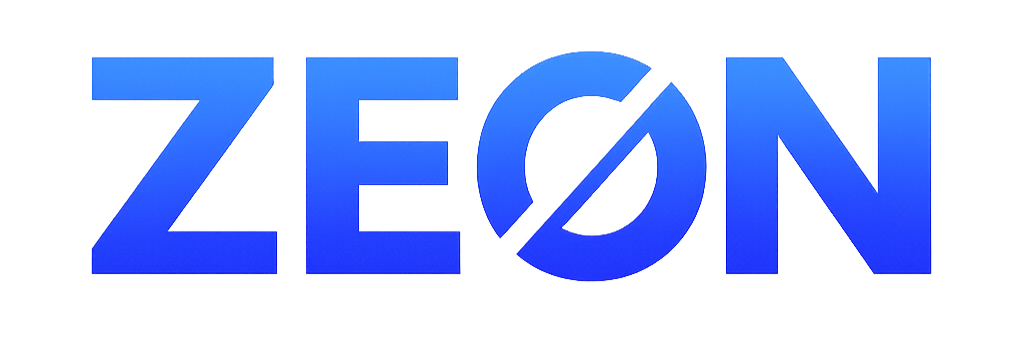
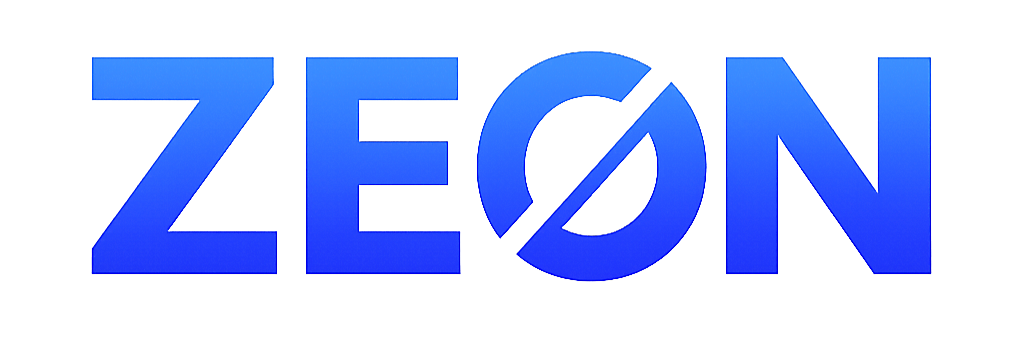
日本語対応

diff --git a/app/layout.tsx b/app/layout.tsx
@@ -1,4 +1,3 @@
-import DeployButton from '@/components/deploy-button';
 import { EnvVarWarning } from '@/components/env-var-warning';
 import HeaderAuth from '@/components/header-auth';
 import { ThemeSwitcher } from '@/components/theme-switcher';
@@ -7,6 +6,7 @@ import { hasEnvVars } from '@/utils/supabase/check-env-vars';
 import { Geist } from 'next/font/google';
 import { ThemeProvider } from 'next-themes';
 import Link from 'next/link';
+import ZeonLogo from '@/components/zeon-logo';
 import './globals.css';
 
 const defaultUrl = process.env.VERCEL_URL
@@ -15,8 +15,8 @@ const defaultUrl = process.env.VERCEL_URL
 
 export const metadata = {
   metadataBase: new URL(defaultUrl),
-  title: 'Next.js and Supabase Starter Kit',
-  description: 'The fastest way to build apps with Next.js and Supabase',
+  title: 'ZEN大授業評価サイト ZEON (非公式)',
+  description: 'ZEN大学の授業を評価・レビューできるプラットフォーム',
 };
 
 const geistSans = Geist({
@@ -45,10 +45,13 @@ export default function RootLayout({
             <div className="flex-1 w-full flex flex-col gap-20 items-center">
               <nav className="w-full flex justify-center border-b border-b-foreground/10 h-16">
                 <div className="w-full max-w-5xl flex justify-between items-center p-3 px-5 text-sm">
-                  <div className="flex gap-5 items-center font-semibold">
-                    <Link href={'/'}>Next.js Supabase Starter</Link>
-                    <div className="flex items-center gap-2">
-                      <DeployButton />
+                  <div className="flex gap-5 items-center">
+                    <Link href={'/'}>
+                      <ZeonLogo />
+                    </Link>
+                    <div className="hidden md:block">
+                      <div className="text-sm font-medium">ZEN大授業評価サイト</div>
+                      <div className="text-xs">ZEON (非公式)</div>
                     </div>
                   </div>
                   {!hasEnvVars ? <EnvVarWarning /> : <HeaderAuth />}
@@ -58,15 +61,7 @@ export default function RootLayout({
 
               <footer className="w-full flex items-center justify-center border-t mx-auto text-center text-xs gap-8 py-16">
                 <p>
-                  Powered by{' '}
-                  <a
-                    href="https://supabase.com/?utm_source=create-next-app&utm_medium=template&utm_term=nextjs"
-                    target="_blank"
-                    className="font-bold hover:underline"
-                    rel="noreferrer"
-                  >
-                    Supabase
-                  </a>
+                  Powered by ZEON運営チーム
                 </p>
                 <ThemeSwitcher />
               </footer>

diff --git a/components/hero.tsx b/components/hero.tsx
@@ -1,42 +1,21 @@
 import ZionLogo from './zeon-logo';
-import SupabaseLogo from './supabase-logo';
 
 export default function Header() {
   return (
     <div className="flex flex-col gap-16 items-center">
       <div className="flex gap-8 justify-center items-center">
-        <a
-          href="https://supabase.com/?utm_source=create-next-app&utm_medium=template&utm_term=nextjs"
-          target="_blank"
-          rel="noreferrer"
-        >
-          <SupabaseLogo />
-        </a>
-        <span className="border-l rotate-45 h-6" />
-        <a href="https://nextjs.org/" target="_blank" rel="noreferrer">
-          <ZionLogo />
-        </a>
+        <ZionLogo />
       </div>
-      <h1 className="sr-only">Supabase and Next.js Starter Template</h1>
+      <h1 className="sr-only">ZEN大授業評価サイト ZEON (非公式)</h1>
       <p className="text-3xl lg:text-4xl !leading-tight mx-auto max-w-xl text-center">
-        The fastest way to build apps with{' '}
-        <a
-          href="https://supabase.com/?utm_source=create-next-app&utm_medium=template&utm_term=nextjs"
-          target="_blank"
-          className="font-bold hover:underline"
-          rel="noreferrer"
-        >
-          Supabase
-        </a>{' '}
-        and{' '}
-        <a
-          href="https://nextjs.org/"
-          target="_blank"
-          className="font-bold hover:underline"
-          rel="noreferrer"
-        >
-          Next.js
-        </a>
+        <span className="font-bold">ZEN大授業評価サイト</span>
+        <br />
+        <span className="text-2xl lg:text-3xl">ZEON (非公式)</span>
+      </p>
+      <p className="text-xl max-w-xl text-center">
+        ZEN大学の授業を評価・レビューできるプラットフォーム。
+        <br />
+        ZEN大学のGoogleアカウントでログインして、授業評価を共有しましょう。
       </p>
       <div className="w-full p-[1px] bg-gradient-to-r from-transparent via-foreground/10 to-transparent my-8" />
     </div>

diff --git a/components/header-auth.tsx b/components/header-auth.tsx
@@ -18,7 +18,7 @@ export default async function AuthButton() {
         <div className="flex gap-4 items-center">
           <div>
             <Badge variant={'default'} className="font-normal pointer-events-none">
-              Please update .env.local file with anon key and url
+              .env.localファイルにanon keyとURLを設定してください
             </Badge>
           </div>
           <div className="flex gap-2">
@@ -29,7 +29,7 @@ export default async function AuthButton() {
               disabled
               className="opacity-75 cursor-none pointer-events-none"
             >
-              <Link href="/sign-in">Sign in</Link>
+              <Link href="/sign-in">ログイン</Link>
             </Button>
             <Button
               asChild
@@ -38,7 +38,7 @@ export default async function AuthButton() {
               disabled
               className="opacity-75 cursor-none pointer-events-none"
             >
-              <Link href="/sign-up">Sign up</Link>
+              <Link href="/sign-up">アカウント登録</Link>
             </Button>
           </div>
         </div>
@@ -47,20 +47,20 @@ export default async function AuthButton() {
   }
   return user ? (
     <div className="flex items-center gap-4">
-      Hey, {user.email}!
+      こんにちは、{user.email}さん！
       <form action={signOutAction}>
         <Button type="submit" variant={'outline'}>
-          Sign out
+          ログアウト
         </Button>
       </form>
     </div>
   ) : (
     <div className="flex gap-2">
       <Button asChild size="sm" variant={'outline'}>
-        <Link href="/sign-in">Sign in</Link>
+        <Link href="/sign-in">ログイン</Link>
       </Button>
       <Button asChild size="sm" variant={'default'}>
-        <Link href="/sign-up">Sign up</Link>
+        <Link href="/sign-up">アカウント登録</Link>
       </Button>
     </div>
   );

diff --git a/components/zeon-logo.tsx b/components/zeon-logo.tsx
@@ -17,17 +17,30 @@ const ZeonLogo: React.FC = () => {
           <stop offset="0%" stopColor="#3a7bd5" />
           <stop offset="100%" stopColor="#7856d6" />
         </linearGradient>
+        <filter id="shadow" x="-2" y="-2" width="204" height="84">
+          <feDropShadow dx="0" dy="2" stdDeviation="2" floodOpacity="0.3" />
+        </filter>
       </defs>
-      <g fill="url(#zeonGradient)">
-        {/* Z */}
-        <path d="M0 20 H50 L0 60 H50 V70 H0 V60 L50 20 H0 Z" />
-        {/* E */}
-        <path d="M60 20 H100 V30 H70 V40 H95 V50 H70 V60 H100 V70 H60 V20 Z" />
-        {/* O with slash */}
-        <path d="M110 45 A20 20 0 1 1 149.9 45 A20 20 0 1 1 110 45 Z M113 30 L147 65 L143 68 L110 33 Z" />
-        {/* N */}
-        <path d="M160 20 H170 L190 55 V20 H200 V70 H190 L170 35 V70 H160 V20 Z" />
-      </g>
+      
+      {/* 背景の装飾 */}
+      <rect x="5" y="5" width="190" height="70" rx="10" fill="white" fillOpacity="0.1" />
+      
+      {/* ZEON テキスト - システムフォントを使用 */}
+      <text
+        x="100"
+        y="55"
+        fontFamily="Arial, Helvetica, sans-serif"
+        fontSize="48"
+        fontWeight="bold"
+        textAnchor="middle"
+        fill="url(#zeonGradient)"
+        filter="url(#shadow)"
+      >
+        ZEON
+      </text>
+      
+      {/* 下線装飾 */}
+      <path d="M30 65 H170" stroke="url(#zeonGradient)" strokeWidth="3" strokeLinecap="round" />
     </svg>
   );
 };

diff --git a/app/page.tsx b/app/page.tsx
@@ -1,7 +1,4 @@
 import Hero from '@/components/hero';
-import ConnectSupabaseSteps from '@/components/tutorial/connect-supabase-steps';
-import SignUpUserSteps from '@/components/tutorial/sign-up-user-steps';
-import { hasEnvVars } from '@/utils/supabase/check-env-vars';
 import BanMessageToast from '@/components/ban-message-toast';
 
 export default async function Home() {
@@ -10,8 +7,7 @@ export default async function Home() {
       <BanMessageToast />
       <Hero />
       <main className="flex-1 flex flex-col gap-6 px-4">
-        <h2 className="font-medium text-xl mb-4">Next steps</h2>
-        {hasEnvVars ? <SignUpUserSteps /> : <ConnectSupabaseSteps />}
+        {/* メインコンテンツはここに追加されます */}
       </main>
     </>
   );

diff --git a/app/(auth-pages)/sign-up/page.tsx b/app/(auth-pages)/sign-up/page.tsx
@@ -27,11 +27,11 @@ export default async function Signup(props: { searchParams: Promise<Message> }) 
   return (
     <>
       <form className="flex flex-col min-w-64 max-w-64 mx-auto">
-        <h1 className="text-2xl font-medium">Sign up</h1>
+        <h1 className="text-2xl font-medium">アカウント登録</h1>
         <p className="text-sm text text-foreground">
-          Already have an account?{' '}
+          すでにアカウントをお持ちの方は{' '}
           <Link className="text-primary font-medium underline" href="/sign-in">
-            Sign in
+            ログイン
           </Link>
         </p>
         <div className="flex flex-col gap-2 mt-8">

diff --git a/app/(auth-pages)/sign-in/page.tsx b/app/(auth-pages)/sign-in/page.tsx
@@ -18,11 +18,11 @@ export default async function Login(props: { searchParams: Promise<Message> }) {
 
   return (
     <form className="flex-1 flex flex-col min-w-64">
-      <h1 className="text-2xl font-medium">Sign in</h1>
+      <h1 className="text-2xl font-medium">ログイン</h1>
       <p className="text-sm text-foreground">
-        Don't have an account?{' '}
+        アカウントをお持ちでない方は{' '}
         <Link className="text-foreground font-medium underline" href="/sign-up">
-          Sign up
+          アカウント登録
         </Link>
       </p>
       <div className="flex flex-col gap-2 mt-8">
